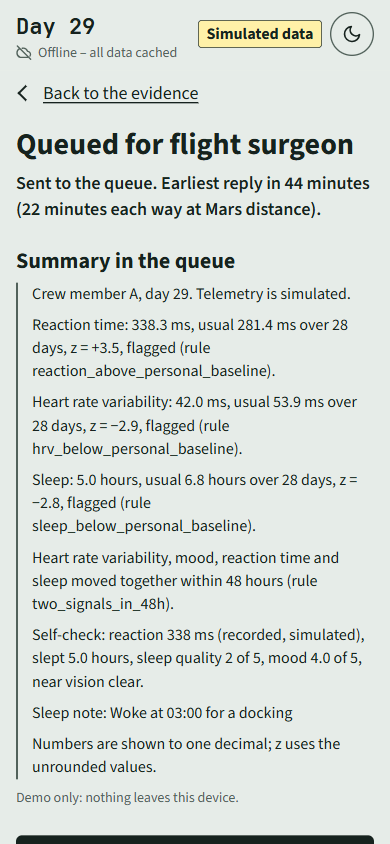
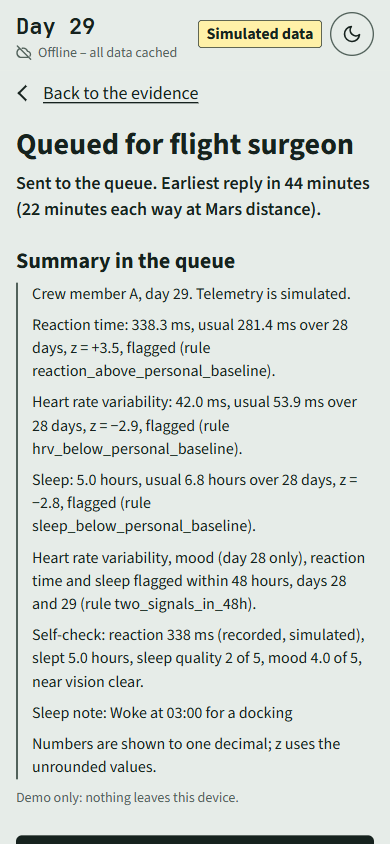
48-hour row names its signals and days (flagged, with a one-day note); README not-covered line for blood pressure and blood sugar

Changed region(s): [[0.0615, 0.6469, 0.9231, 0.7393]]

diff --git a/web/app.js b/web/app.js
@@ -50,6 +50,17 @@ const signed = (z) => `${z < 0 ? "−" : "+"}${Math.abs(z).toFixed(1)}`;
 const listWords = (xs) => (xs.length < 2 ? xs.join("") : `${xs.slice(0, -1).join(", ")} and ${xs.at(-1)}`);
 const title = (r) => (r.signal ? SIGNALS[r.signal].name : "Several readings together");
 const names = (r) => listWords(r.signals.map((s, i) => (i ? SIGNALS[s].name.toLowerCase() : SIGNALS[s].name)));
+// The 48-hour rule's two days (rules.js ruleMultiSignal: the latest day and the day before).
+const pairDays = () => [state.day - 1, state.day];
+// Its signals, each marked "(day N only)" when it was confirmed on just one of the two days.
+function pairNames(r, capital) {
+  const confirmedOn = (s, d) => (state.flags[d] || []).some((f) => f.signal === s && f.status === "confirmed");
+  return listWords(r.signals.map((s, i) => {
+    const name = i || !capital ? SIGNALS[s].name.toLowerCase() : SIGNALS[s].name;
+    const on = pairDays().filter((d) => confirmedOn(s, d));
+    return on.length === 1 ? `${name} (day ${on[0]} only)` : name;
+  }));
+}
 const flagsFor = (day) =>
   [...(state.flags[day] || [])].sort((a, b) => !a.signal - !b.signal || Math.abs(b.z) - Math.abs(a.z));
 const windowDays = (r) => { const h = state.rows.slice(0, -1).slice(-r.window_days); return [h[0].day, h.at(-1).day]; };
@@ -67,7 +78,7 @@ function daysRunning(r) {
 }
 
 function plainStatus(r) {
-  if (!r.signal) return `${COUNT[r.signals.length] || r.signals.length} readings moved together within 48 hours.`;
+  if (!r.signal) return `Flagged on days ${pairDays().join(" and ")}: ${pairNames(r)}.`;
   const where = Math.abs(r.z) >= WELL_OUTSIDE_Z ? "Well outside your usual range" : "Outside your usual range";
   const n = daysRunning(r);
   if (n > 1) return `${where}, ${ORDINAL[n] ? `${ORDINAL[n]} day` : `${n} days`} running.`;
@@ -75,7 +86,8 @@ function plainStatus(r) {
 }
 
 function plainWords(r) {
-  if (!r.signal) return `${r.signals.length} readings moved outside your usual range within 48 hours: ${names(r)}. This rule fires when two or more do.`;
+  if (!r.signal) return `${COUNT[r.signals.length] || r.signals.length} readings were flagged within 48 hours (days ${pairDays().join(" and ")}): ${pairNames(r)}. ` +
+    "This rule fires when two or more different readings are flagged in that window.";
   const s = SIGNALS[r.signal], diff = r.current - r.baseline_mean, [a, b] = windowDays(r);
   const pct = Math.round((Math.abs(diff) / r.baseline_mean) * 100);
   return `${s.phrase} was ${fmt(r.signal, r.current)}. Over days ${a} to ${b} it averaged ${fmt(r.signal, r.baseline_mean)}, ` +
@@ -594,7 +606,7 @@ function renderEvidence(r) {
     : [
       ["Window", `48 hours, days ${state.day - 1} and ${state.day}`],
       ["Readings", names(r)],
-      ["Flags when", "2 or more readings are outside your usual range"],
+      ["Flags when", "2 or more different readings are flagged in the window"],
       ["Status", plainStatus(r)],
     ];
   $("ev-numbers").classList.toggle("nums", !!r.signal); // today, usual and spread in the number font
@@ -682,7 +694,7 @@ $("queue-btn").addEventListener("click", () => {
   for (const r of flagsFor(state.day)) {
     lines.push(r.signal
       ? `${title(r)}: ${fmtZ(r, r.current)}, usual ${fmtZ(r, r.baseline_mean)} over ${r.window_days} days, z = ${signed(r.z)}, ${r.status === "confirmed" ? "flagged" : "watching"} (rule ${r.rule}).`
-      : `${names(r)} moved together within 48 hours (rule ${r.rule}).`);
+      : `${pairNames(r, true)} flagged within 48 hours, days ${pairDays().join(" and ")} (rule ${r.rule}).`);
   }
   if (row.self_check) {
     lines.push(`Self-check: reaction ${fmt("reaction_ms", row.reaction_ms)} ${row.reaction_recorded ? "(recorded, simulated)" : "median of five"}, slept ${fmt("sleep_hours", row.sleep_hours)}, ` +

diff --git a/web/index.html b/web/index.html
@@ -495,6 +495,6 @@ fieldset { border: 0; padding: 0; margin: 28px 0 0; min-width: 0; }
 <script src="spe.js?v=cdf73caa73"></script>
 <script src="reaction.js?v=0c373ca889"></script>
 <script src="store.js?v=986788a7d2"></script>
-<script src="app.js?v=bedf23bbb4"></script>
+<script src="app.js?v=02552db482"></script>
 </body>
 </html>

diff --git a/tests/test_web.py b/tests/test_web.py
@@ -196,6 +196,39 @@ def test_demo_reaction_card_one_decimal_inputs_reproduce_z():
     assert round((shown[0] - shown[1]) / shown[2], 1) == round(r["z"], 1) == 3.5
 
 
+PAIR_JS = """
+const src = require("fs").readFileSync("web/app.js", "utf8");
+const signals = src.slice(src.indexOf("const SIGNALS = {"), src.indexOf("};", src.indexOf("const SIGNALS = {")) + 2);
+const text = src.slice(src.indexOf("const listWords"), src.indexOf("function sourceNote"));
+const cases = JSON.parse(process.argv[1]);
+console.log(JSON.stringify(cases.map(({ day, flags, r }) => new Function("state", "r",
+  `${signals}\\n${text}\\nreturn [plainStatus(r), plainWords(r), pairNames(r, true)];`)({ day, flags }, r))));
+"""
+
+
+@pytest.mark.skipif(NODE is None, reason="node is not installed")
+def test_48_hour_row_names_the_signals_and_the_days():
+    """A3: the 48-hour row says which signals and which days the rule counted (confirmed only, the latest day
+    and the day before), and marks a signal confirmed on one of the two days only."""
+    rows = json.loads(Path("web/data/crew_a_anomaly.json").read_text())["rows"]
+    rows = [dict(r, **({"sleep_hours": 5.0, "mood_1to5": 4} if r["day"] == 29 else {})) for r in rows if r["day"] <= 29]
+    flags = evaluate(rows)  # the recorded day-29 demo: sleep 5, mood 4
+    demo = next(r for r in flags[29] if r["rule"] == "two_signals_in_48h")
+    one = {"rule": "two_signals_in_48h", "signals": ["hrv_rmssd_ms", "sleep_hours"], "window_days": 2}
+    later = {28: [{"signal": "hrv_rmssd_ms", "status": "confirmed"}, {"signal": "sleep_hours", "status": "watch"}],
+             29: [{"signal": "hrv_rmssd_ms", "status": "confirmed"}, {"signal": "sleep_hours", "status": "confirmed"}]}
+    cases = [{"day": 29, "flags": flags, "r": demo}, {"day": 29, "flags": later, "r": one}]
+    out = json.loads(subprocess.run([NODE, "-e", PAIR_JS, json.dumps(cases)], capture_output=True, text=True, check=True).stdout)
+    assert out[0] == [
+        "Flagged on days 28 and 29: heart rate variability, mood (day 28 only), reaction time and sleep.",
+        "Four readings were flagged within 48 hours (days 28 and 29): heart rate variability, mood (day 28 only), "
+        "reaction time and sleep. This rule fires when two or more different readings are flagged in that window.",
+        "Heart rate variability, mood (day 28 only), reaction time and sleep",
+    ]
+    assert out[1][0] == "Flagged on days 28 and 29: heart rate variability and sleep (day 29 only)."
+    assert not [p for line in out[0] + out[1] for p in BLOCKED if p in line.lower()]
+
+
 def console_html() -> str:
     html = Path("web/index.html").read_text(encoding="utf-8")
     return html[html.index('<section id="console"'):html.index('<div id="radiation"')]

diff --git a/README.md b/README.md
@@ -67,7 +67,7 @@ pytest -q
 python -m baseline.serve
 ```
 
-`pytest -q` should print **83 passed**. The last line opens the demo in your browser at http://localhost:8000 (or 8001–8010 if busy). Ctrl+C stops it.
+`pytest -q` should print **84 passed**. The last line opens the demo in your browser at http://localhost:8000 (or 8001–8010 if busy). Ctrl+C stops it.
 
 **On a phone:** `python -m baseline.serve --lan`, then open the second address it prints on a phone on the same wifi. Windows may ask to let Python through the firewall; allow it for private networks.
 
@@ -150,6 +150,8 @@ flowchart TD
 | **Real** | Your answers in the self-check | Replace day 29's reaction time, sleep and mood. Each saved check is kept in this browser on this device (no cloud, no network) and is still there after a reload; "Download the daily log (CSV)" exports it and "Clear saved days" removes it. |
 | **Simulated** | 30 days of vitals for one crew member: heart rate, HRV, SpO2, core temperature, sleep, exercise minutes, reaction time, mood | Gaussian noise around fixed means, seed 7, in `data/fixtures`. The anomaly fixture lowers HRV, sleep and mood and slows reaction time on days 27–29. |
 
+Not covered: blood pressure and blood sugar. The challenge statement names both, but only simulated values would be possible, so they were left out when the scope was set on 28 Oct 2026.
+
 Card text is fixed wording filled in with the rule output.
 
 ---
@@ -206,7 +208,7 @@ web/                    the page: index.html, app.js, rules.js, trend.js, projec
 data/fixtures/          simulated 30-day records (clean, anomaly)
 cache/                  NTRS, OSDR and NOAA responses with source URL and fetch time
 docs/                   evidence map, evidence notes, design notes
-tests/                  83 tests
+tests/                  84 tests
 ```
 
 ---
